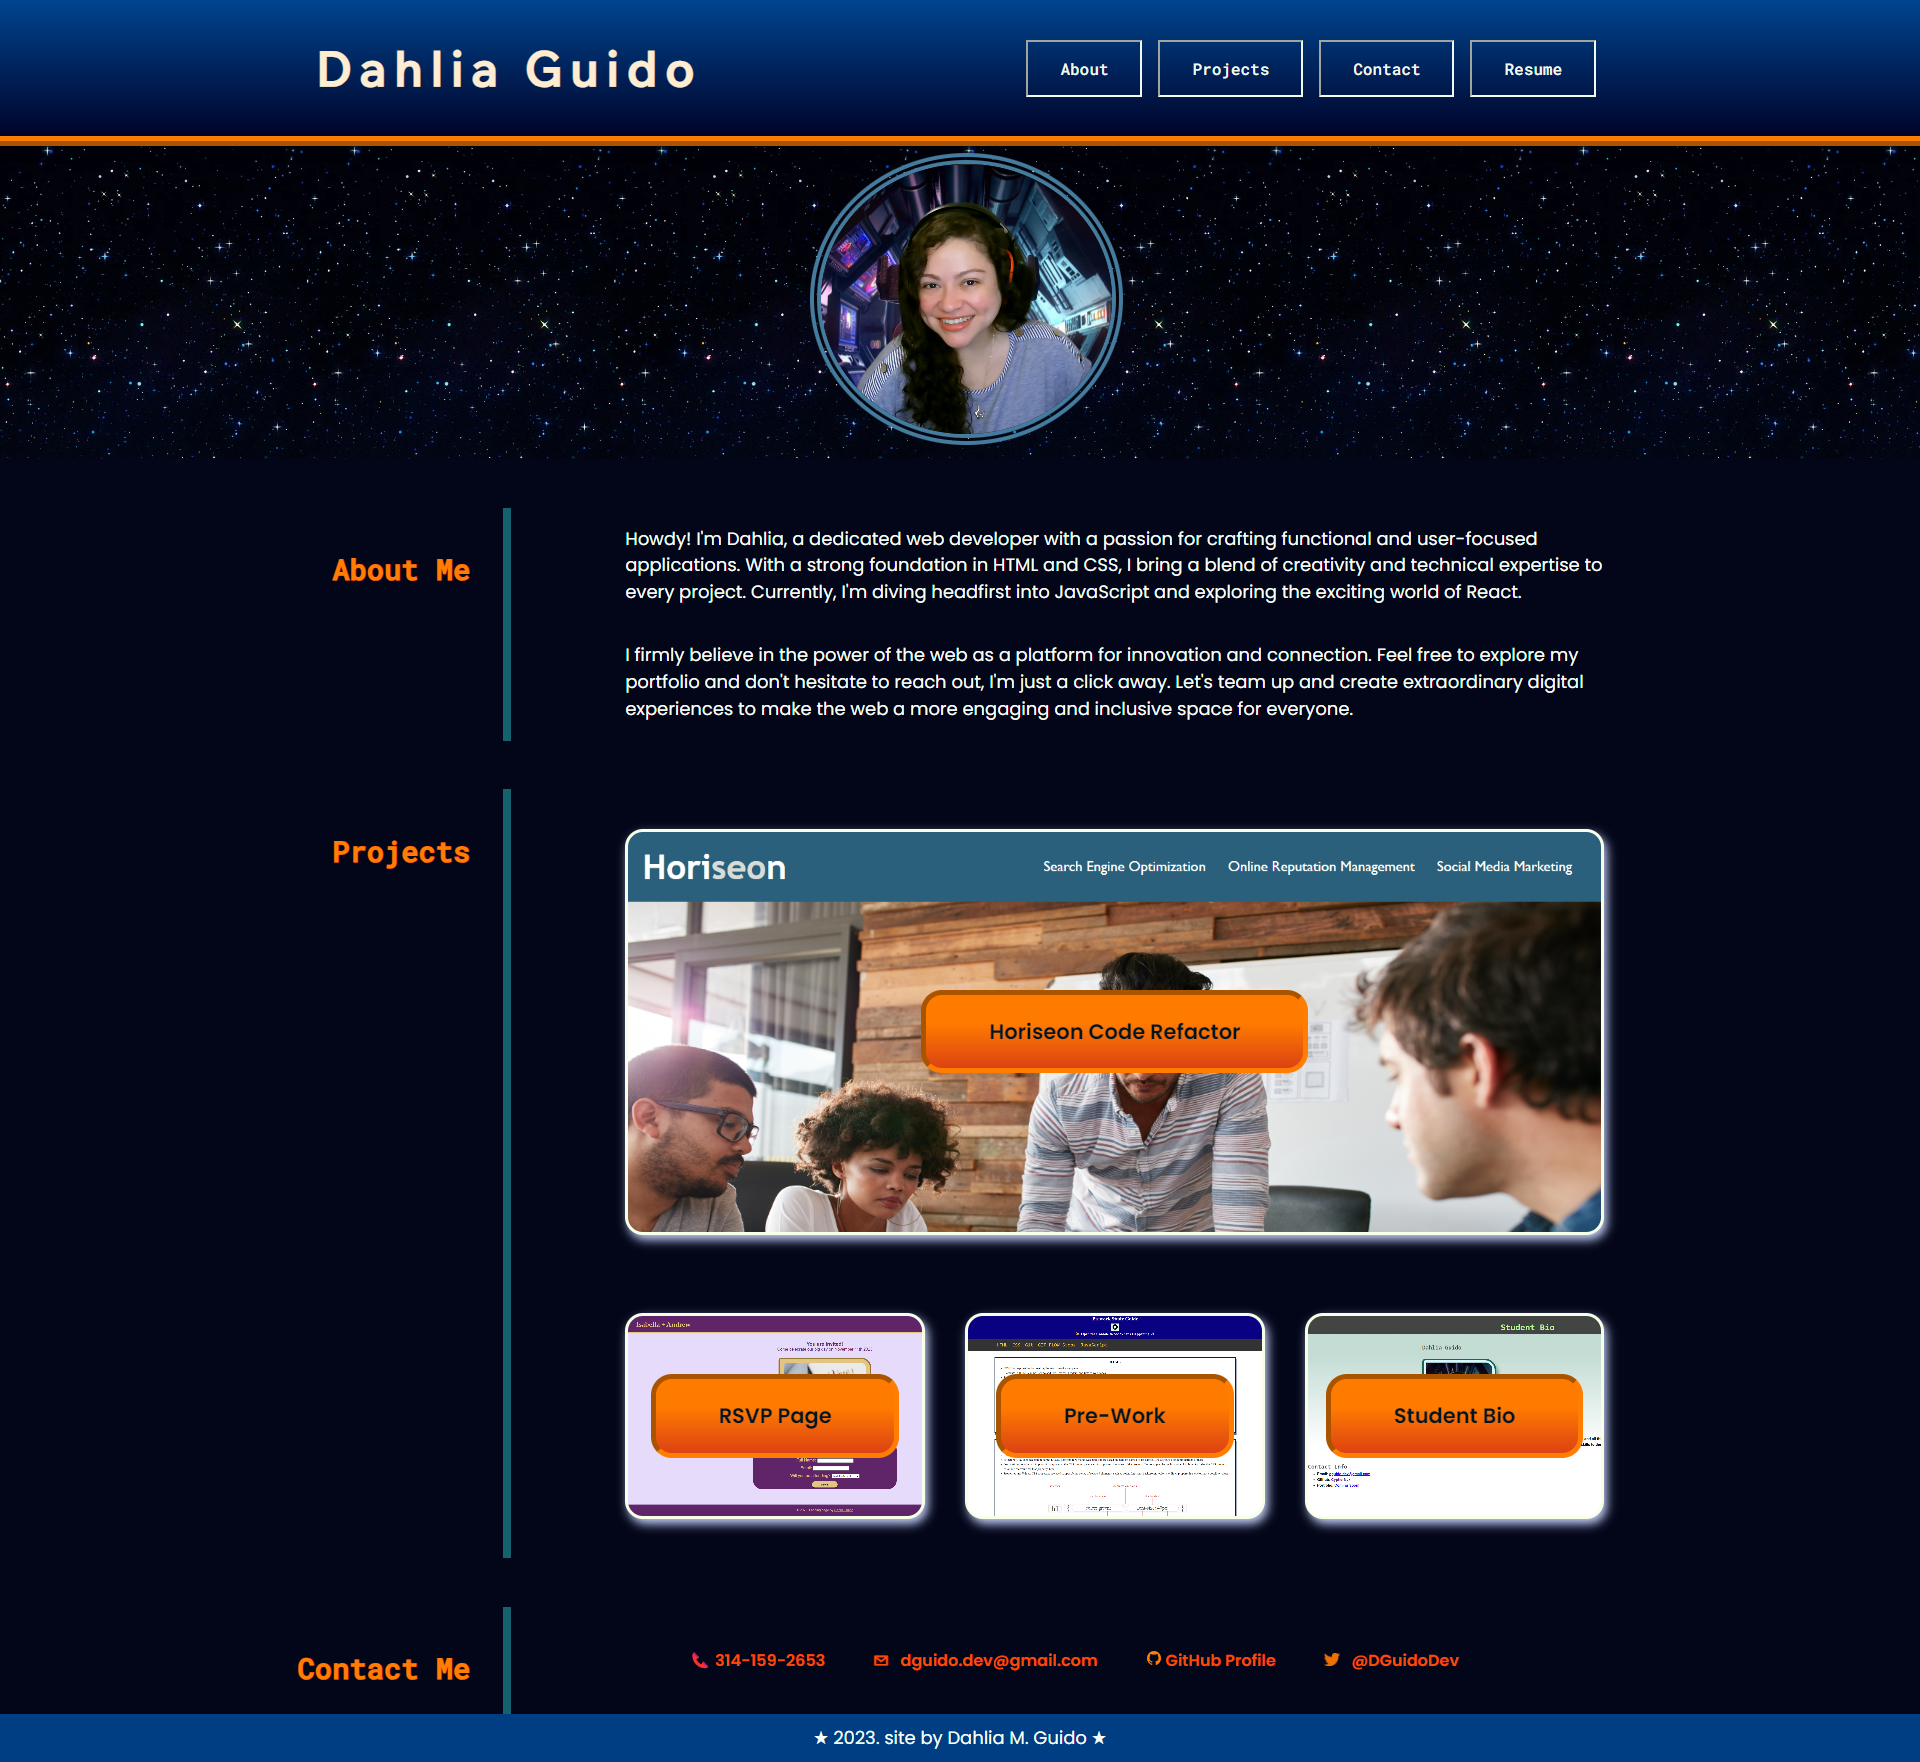
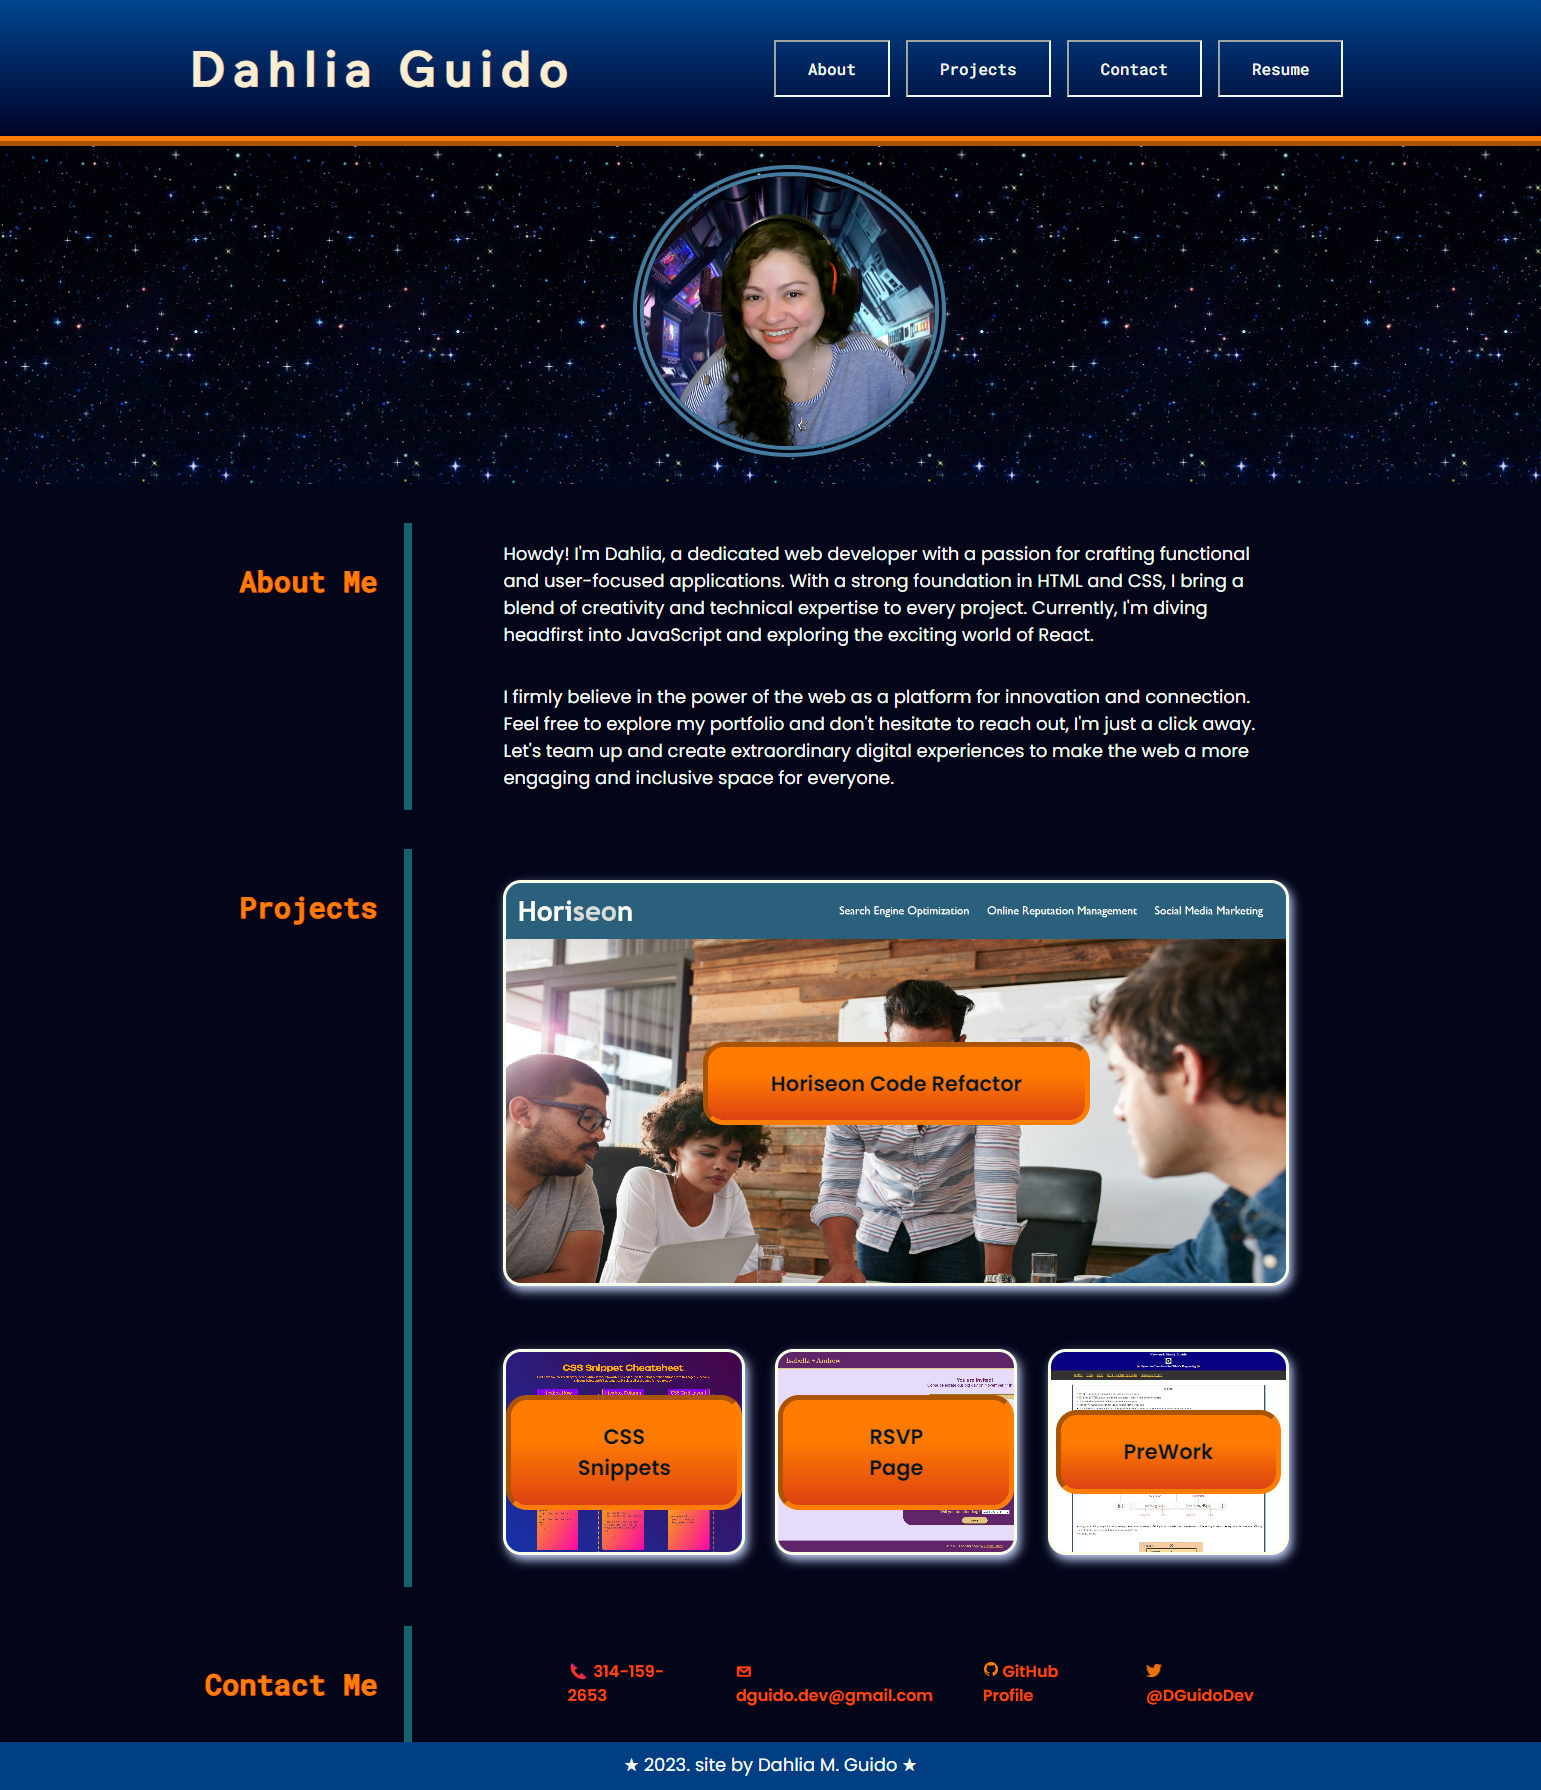
replaced portfolio item

diff --git a/index.html b/index.html
@@ -83,6 +83,12 @@
           </a> -->
         </div>
 
+        <div class="cheatsheet portfolio-item">
+          <a href="https://cyphernyx.github.io/css_snippet_guide/" target="_blank">
+            <h3 class="item-label">CSS Snippets</h3>
+          </a>
+        </div>
+
 
         <div class="rsvp portfolio-item">
           <a href="https://cyphernyx.github.io/HTML-Simple-landing-page/" target="_blank">
@@ -93,15 +99,15 @@
 
 
         <div class="prework portfolio-item"><a href="https://cyphernyx.github.io/prework-study-guide/" target="_blank">
-            <h3 class="item-label">Pre-Work</h3>
+            <h3 class="item-label">PreWork</h3>
           </a></div>
 
 
-        <div class="student-bio portfolio-item">
+        <!-- <div class="student-bio portfolio-item">
           <a href="https://cyphernyx.github.io/student-bio/" target="_blank">
             <h3 class="item-label">Student Bio</h3>
           </a>
-        </div>
+        </div> -->
 
 
       </div>

diff --git a/assets/css/style.css b/assets/css/style.css
@@ -161,11 +161,18 @@ button:hover {
 
 }
 
+.sub-content div.cheatsheet {
+  background-image: url(../images/github-io-css-cheatsheet.png);
+  background-size: cover;
+
+}
+
+/* 
 .sub-content div.student-bio {
   background-image: url(../images/github-io-student-bio.png);
   background-size: cover;
 
-}
+} */
 
 /*Portfolio items and laels*/
 .portfolio-item {
